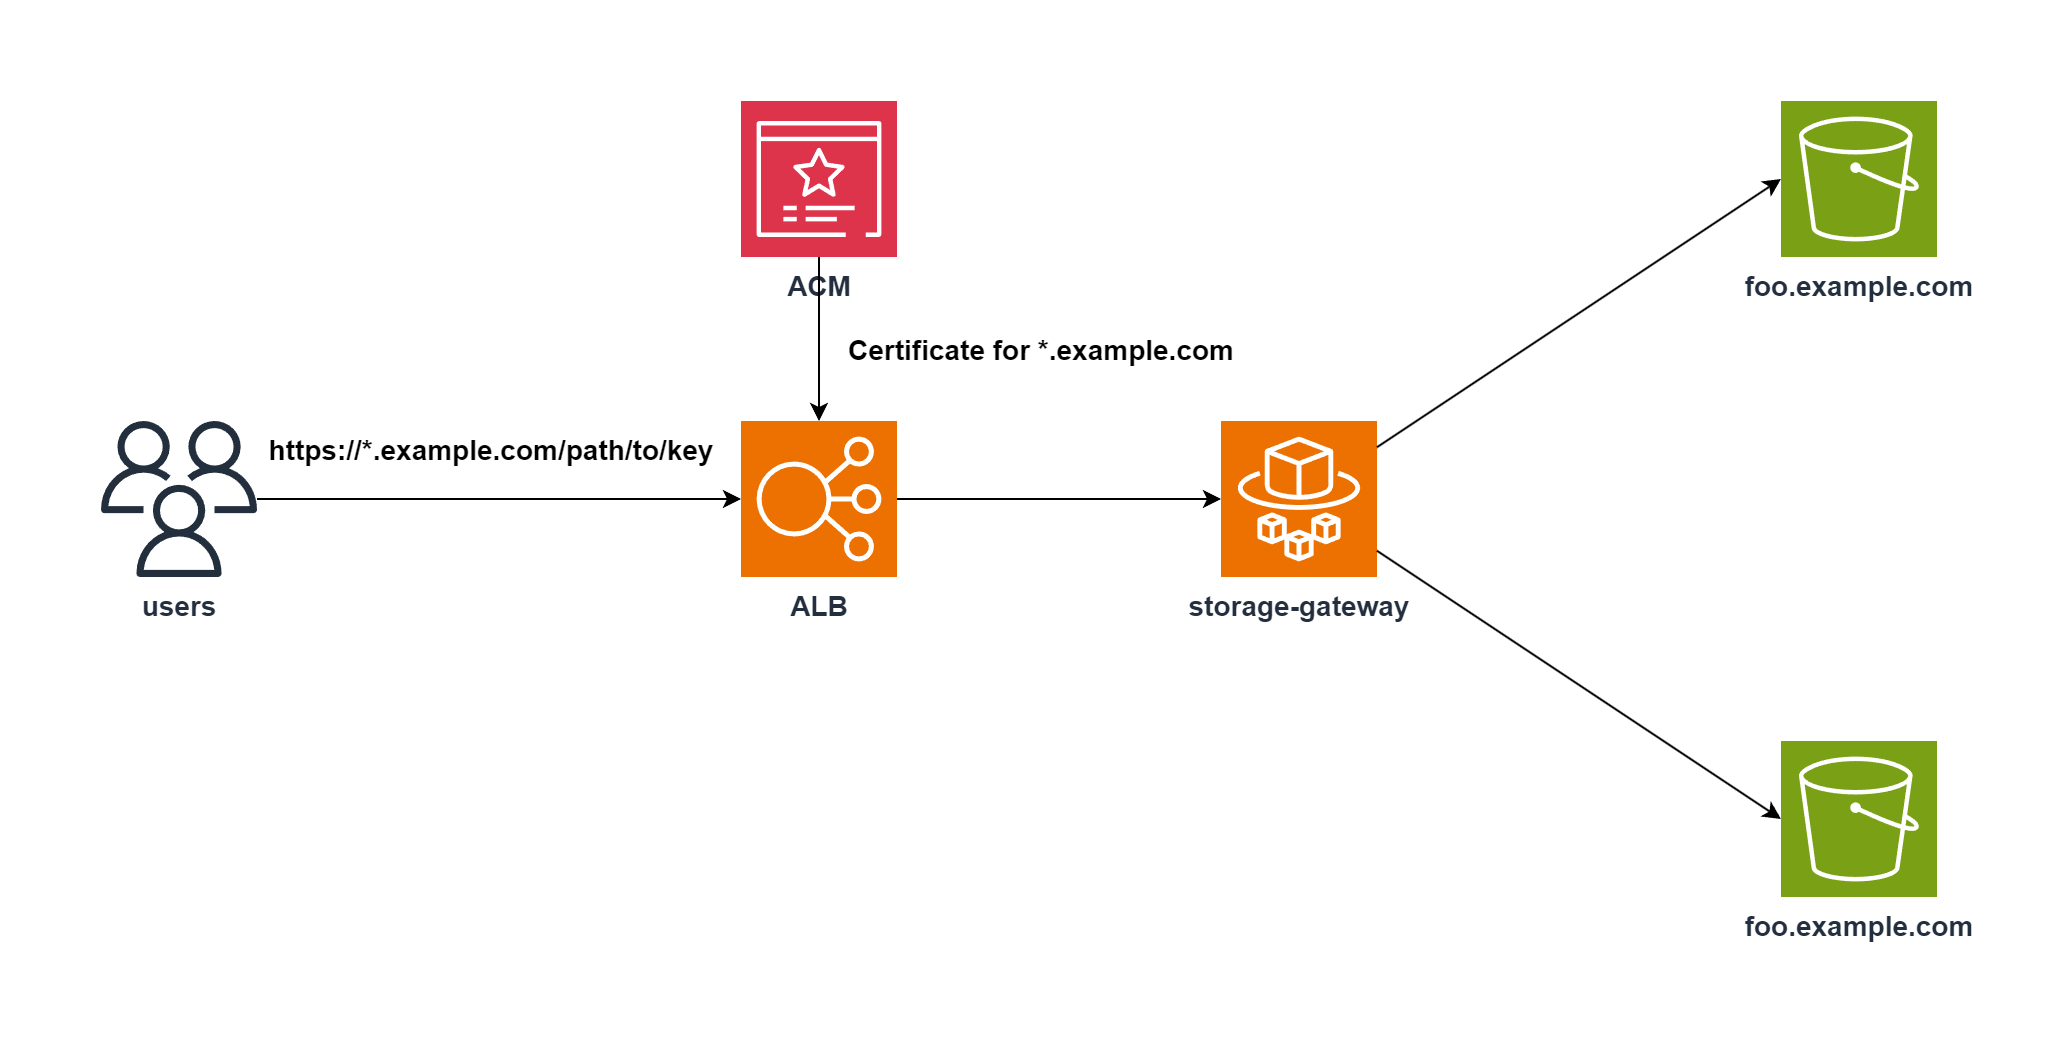
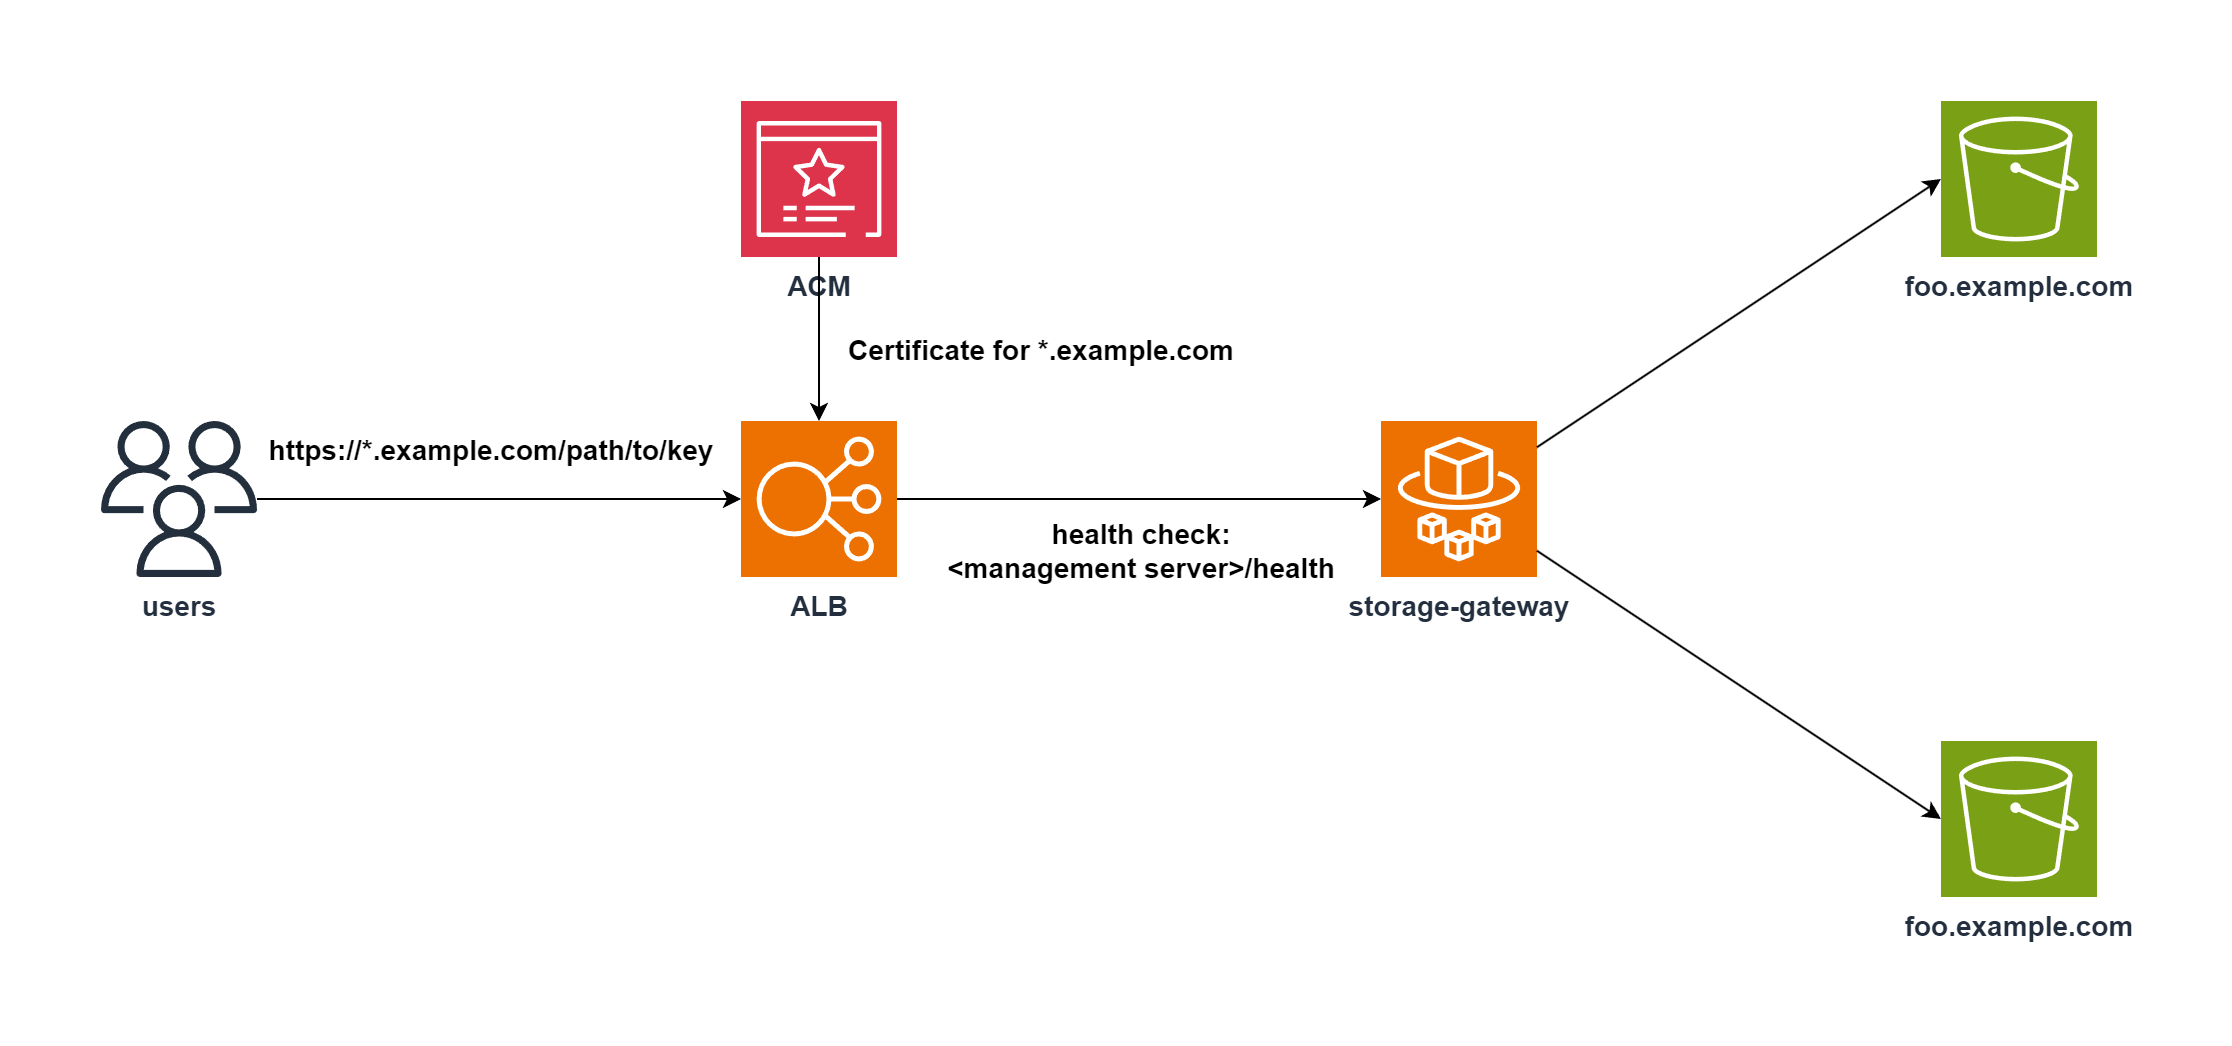
Fix README

diff --git a/README.md b/README.md
@@ -25,6 +25,12 @@ storage-gateway must allow the following actions for the S3 buckets it accesses.
 | GW_GATEWAY_PORT                | The port to run the gateway on                                 | no       | 8000    |
 | GW_MANAGEMENT_PORT             | The port to run the management server on                       | no       | 8080    |
 
+## Management server paths
+
+| Path    | Method | Description                                  |
+|---------|--------|----------------------------------------------|
+| /health | GET    | Health check. Always return status code 200. |
+
 ## Access S3 buckets of other AWS accounts
 
 To access S3 buckets of other AWS accounts, you must set the `GW_ALLOW_CROSS_ACCOUNT` environment variable to `true`.  
